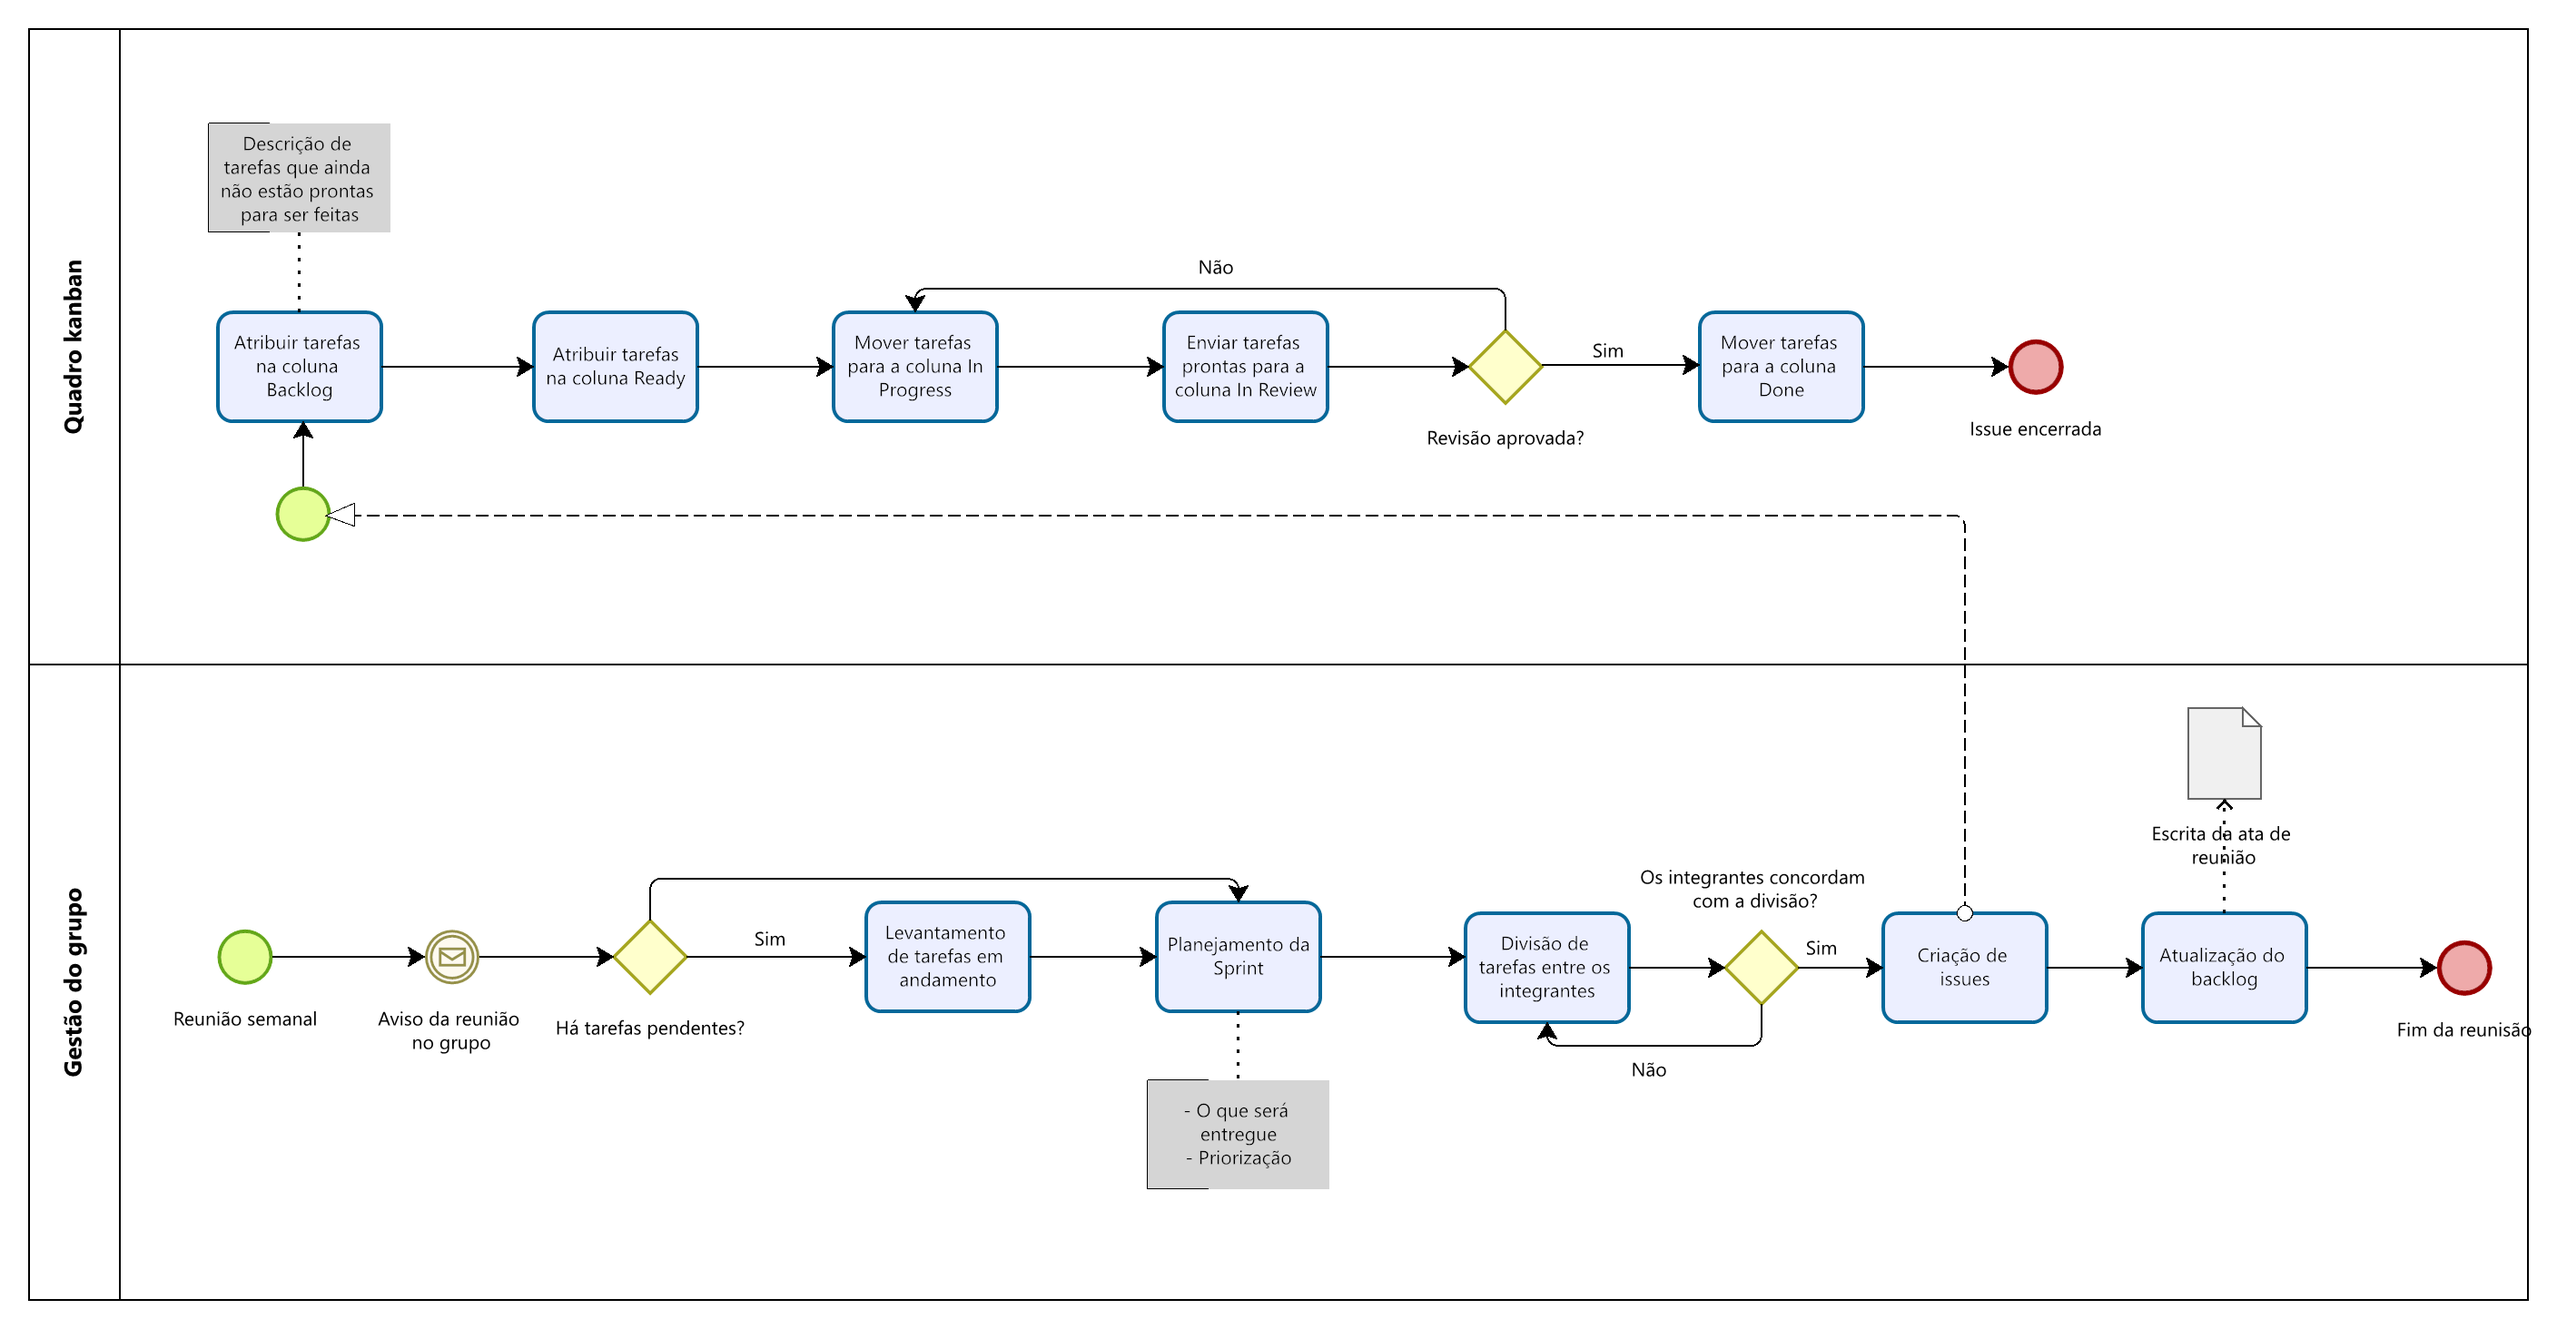
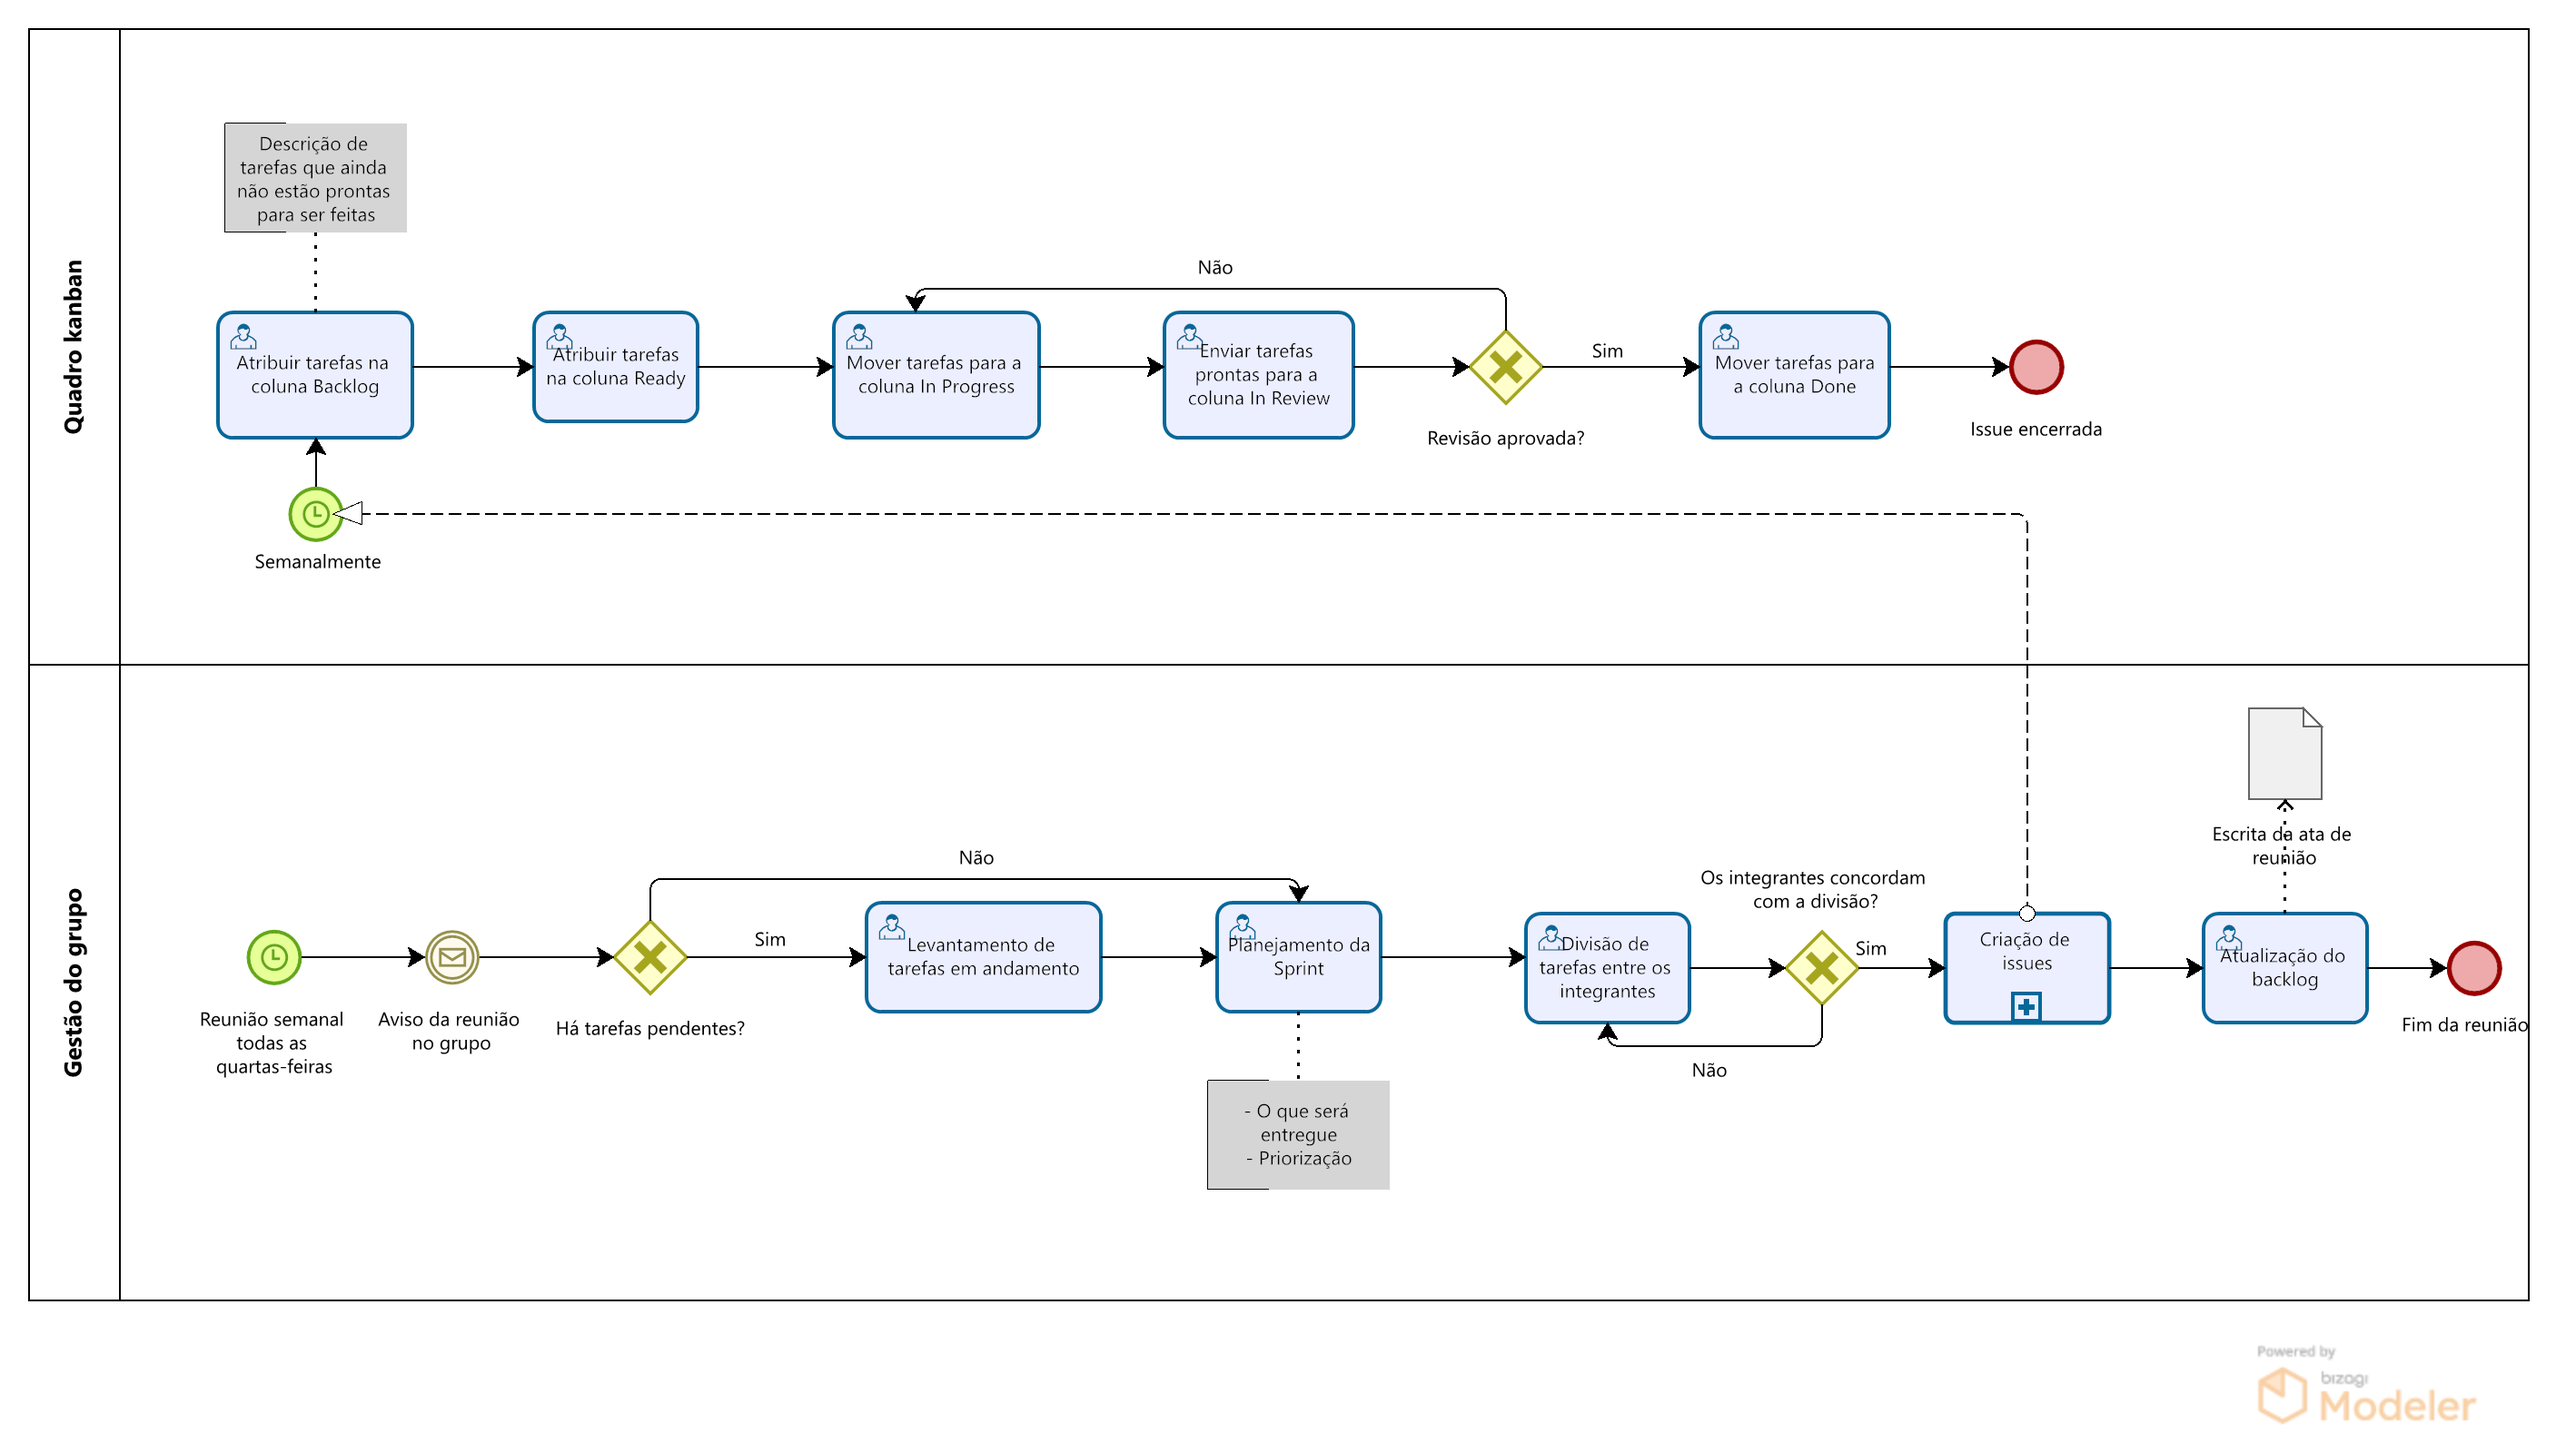
(#70) Melhoria no BPMN de metodologias

diff --git a/docs/Entregas/Um/BPMN.md b/docs/Entregas/Um/BPMN.md
@@ -8,9 +8,17 @@ A notação BPMN auxilia no entendimento de processos e de atividades de acordo 
 
 ## Metodologia
 
+Após as primeiras reuniões do grupo, entramos em um conssenso em relação as metodologias que serão utilizadas para o desenvolvimento do projeto ao longo da disciplina. Serão abordadas diferentes técnicas provenientes dos métodos _Scrum_ e _Kanban_.
+
+### Scrum
+
+O _Scrum_ é um método ágil iterativo utilizado para gerenciamento de projetos com foco em revisões constantes dos artefatos elaborados e coloboração mútua. Utilizaremos princípios e definições de _Sprints_, que são ciclos de desenvolvimento e revisões. A equipe optou por utilizar uma adaptação do scrum como metodologia de desenvolvimento devido a familiaridade dos integrantes com os ritos e atividades, principalmente com a Planning e Review.
+
+Semanalmente haverá reunião de alinhamento, em cada reunião será realizado o planejamento da próxima sprint e review das atividades realizadas.
+
 
 ## 1. BPMN Metodologia
-A imagem 1 mostra o BPMN da parte de Metodologia:
+
 
 ![BPMN Metodologia](./assets/BPMN_Metodologia.png)
 
@@ -19,7 +27,6 @@ A imagem 1 mostra o BPMN da parte de Metodologia:
 </div>
 
 ## 2. BPMN Cadastro
-A imagem 2 mostra o BPMN da parte de cadastro da aplicação:
 
 ![BPMN Cadastro](./assets/BPMN_cadastro.png)
 
@@ -28,7 +35,6 @@ A imagem 2 mostra o BPMN da parte de cadastro da aplicação:
 </div>
 
 ## 3. BPMN visualização de produtos, compra e pagamento
-A imagem 3 mostra o BPMN da parte de interação com o produto:
 
 ![BPMN visualização de produtos, compra e pagamento](./assets/BPMN_buy.png)
 <div style="text-align: center">
@@ -41,9 +47,10 @@ A imagem 3 mostra o BPMN da parte de interação com o produto:
 
 ## Histórico de Versão
 
-| Versão | Data       | Descrição                               | Autor(es) | Revisor(es) |
-| ------ | ---------- | --------------------------------------- | --------- | ----------- |
-| `1.0`  | 14/09/2023 | Adição da introdução e BPMN de cadastro | Samuel    | Bruno       |
-| `1.1`  | 14/09/2023 | Padronização do documento               | Kauã      | Samuel      |
-| `1.2`  | 14/09/2023 | Adição da metodologia                   | Gabriel   | Arthur      |
-| `2.0`  | 15/09/2023 | Migração para o MkDocs                  | Arthur    | Gabriel     |
+| Versão | Data       | Descrição                                                         | Autor(es) | Revisor(es) |
+| ------ | ---------- | ----------------------------------------------------------------- | --------- | ----------- |
+| `1.0`  | 14/09/2023 | Adição da introdução e BPMN de cadastro                           | Samuel    | Bruno       |
+| `1.1`  | 14/09/2023 | Padronização do documento                                         | Kauã      | Samuel      |
+| `1.2`  | 14/09/2023 | Adição da metodologia                                             | Gabriel   | Arthur      |
+| `2.0`  | 15/09/2023 | Migração para o MkDocs                                            | Arthur    | Gabriel     |
+| `2.1`  | 15/09/2023 | Atualização do diagrama de metodologia e escolhas metodológicas   | Gabriel   |             |
